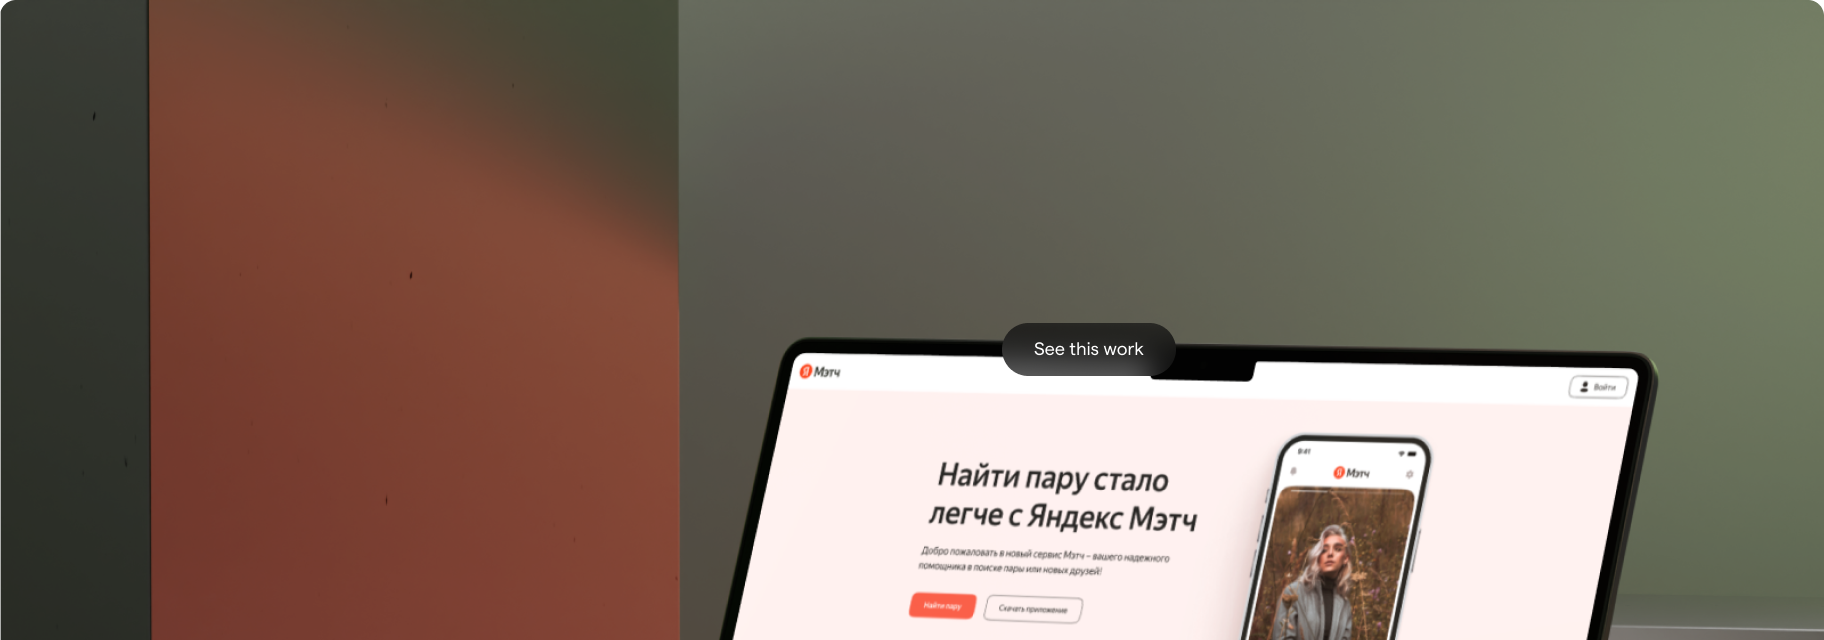
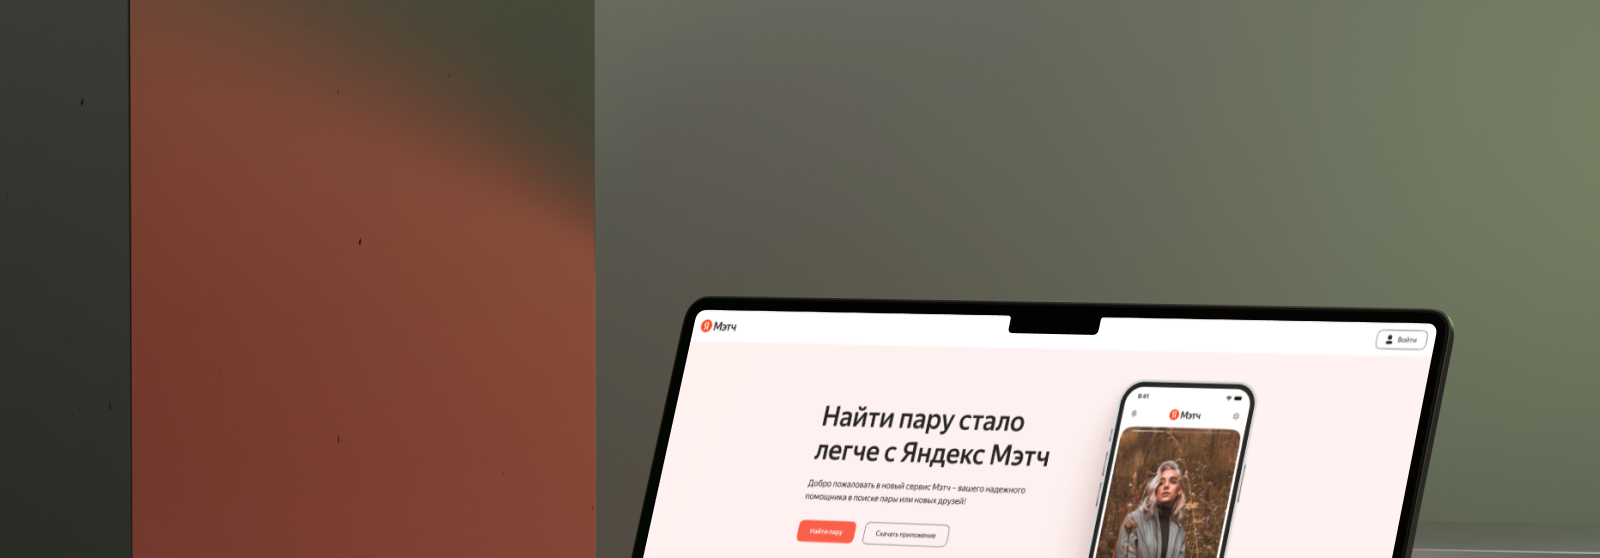
added following cursor button to each project
-- also changed footer images

diff --git a/src/components/ProjectFooter/ProjectFooter.tsx b/src/components/ProjectFooter/ProjectFooter.tsx
@@ -1,9 +1,11 @@
 "use client";
 
 import ArrowBottomLeft from "@/components/icons/ArrowBottomLeft";
+import useFollowingCursorButton from "@/hooks/useFollowingCursorButton";
 import { cn } from "@/utils/component-utils";
 import Image from "next/image";
-import { ComponentPropsWithRef } from "react";
+import { useRouter } from "next/navigation";
+import { ComponentPropsWithRef, useRef } from "react";
 
 type _ProjectFooterProps = {
 	imageSrc: string;
@@ -14,6 +16,19 @@ type ProjectFooterProps = _ProjectFooterProps &
 	Omit<ComponentPropsWithRef<"footer">, keyof _ProjectFooterProps>;
 
 function ProjectFooter({ className, nextProjectHref, imageSrc, ...props }: ProjectFooterProps) {
+	const parentRef = useRef<HTMLImageElement | null>(null);
+	const router = useRouter();
+
+	useFollowingCursorButton({
+		parentRef: parentRef,
+		buttonProps: {
+			title: "See this work",
+			onClick: () => {
+				router.push(nextProjectHref);
+			},
+		},
+	});
+
 	return (
 		<footer className={cn(`flex flex-col gap-6 px-12 pt-[440px]`, className)} {...props}>
 			<div className="flex justify-between gap-4">
@@ -22,7 +37,15 @@ function ProjectFooter({ className, nextProjectHref, imageSrc, ...props }: Proje
 					<ArrowBottomLeft />
 				</div>
 			</div>
-			<Image width={1824} height={640} src={imageSrc} alt="Next project footer image" />
+			<div className="relative h-[640px]">
+				<Image
+					ref={parentRef}
+					className="rounded-tl-2xl rounded-tr-2xl object-cover"
+					fill
+					src={imageSrc}
+					alt="Next project footer image"
+				/>
+			</div>
 		</footer>
 	);
 }

diff --git a/src/app/sections/MainCaseSection.tsx b/src/app/sections/MainCaseSection.tsx
@@ -1,6 +1,7 @@
-import Button from "@/components/buttons/Button";
+import useFollowingCursorButton from "@/hooks/useFollowingCursorButton";
 import { cn } from "@/utils/component-utils";
-import { ComponentPropsWithRef } from "react";
+import { useRouter } from "next/navigation";
+import { ComponentPropsWithRef, useRef } from "react";
 
 type _MainCaseSectionProps = {};
 
@@ -8,24 +9,29 @@ export type MainCaseSectionProps = _MainCaseSectionProps &
 	Omit<ComponentPropsWithRef<"section">, keyof _MainCaseSectionProps>;
 
 function MainCaseSection({ className, ...props }: MainCaseSectionProps) {
+	const parentRef = useRef<HTMLDivElement | null>(null);
+	const router = useRouter();
+
+	useFollowingCursorButton({
+		parentRef: parentRef,
+		buttonProps: {
+			title: "See this work",
+			onClick: () => {
+				router.push("/project-peek");
+			},
+		},
+	});
+
 	return (
 		<section className={cn(`relative flex px-12`, className)} {...props}>
 			<div
+				ref={parentRef}
 				className="flex h-[1026px] w-[1824px] rounded-2xl"
 				style={{
 					backgroundSize: "cover",
 					backgroundImage: "url(main-case-section_case.png)",
 				}}
-			>
-				<Button
-					style={{
-						backdropFilter: "blur(16px)",
-					}}
-					className="absolute left-1/2 top-1/2 bg-[rgba(17,17,17,0.64)]"
-				>
-					See this work
-				</Button>
-			</div>
+			></div>
 		</section>
 	);
 }
